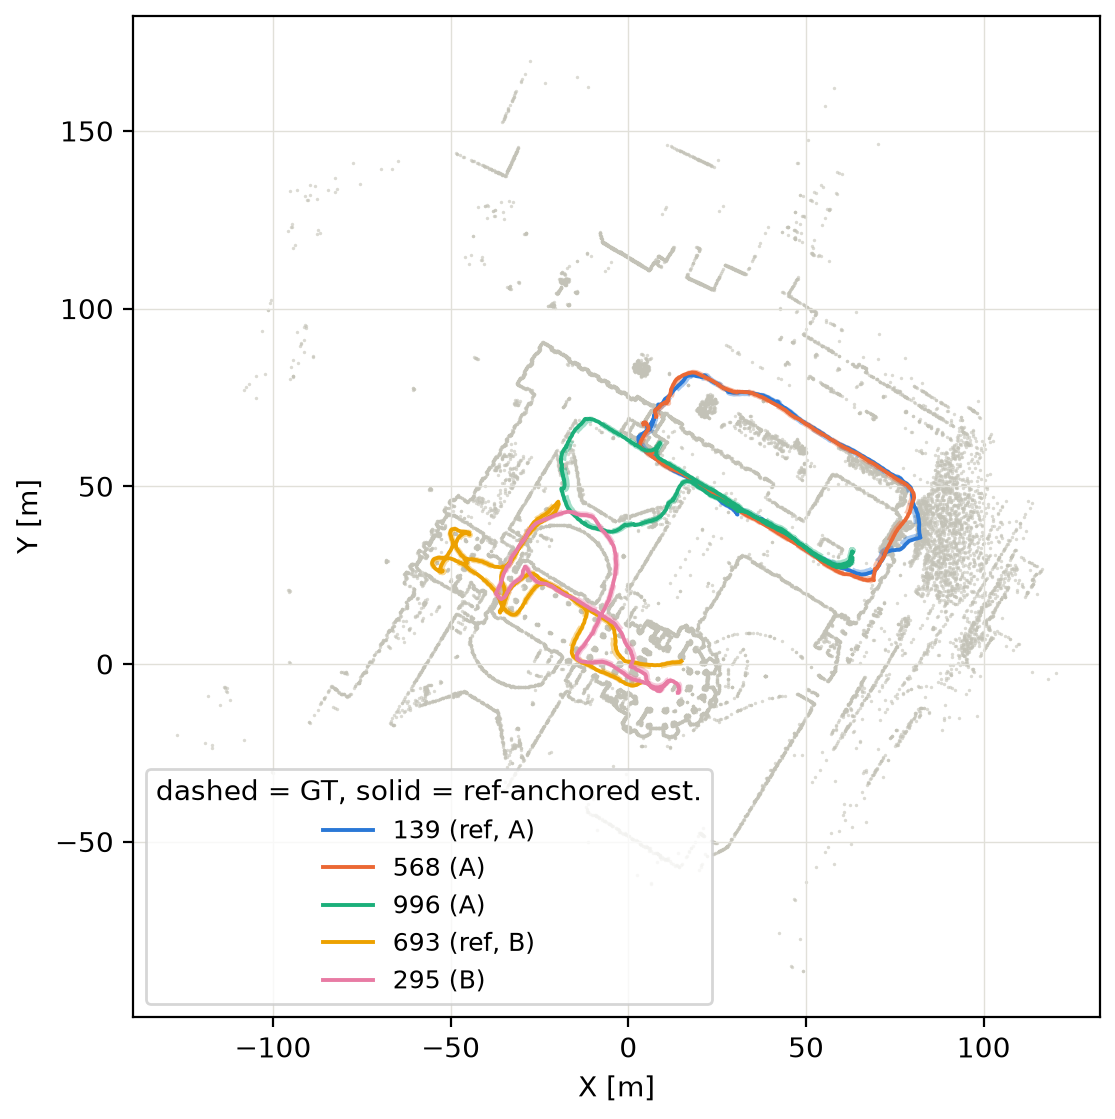
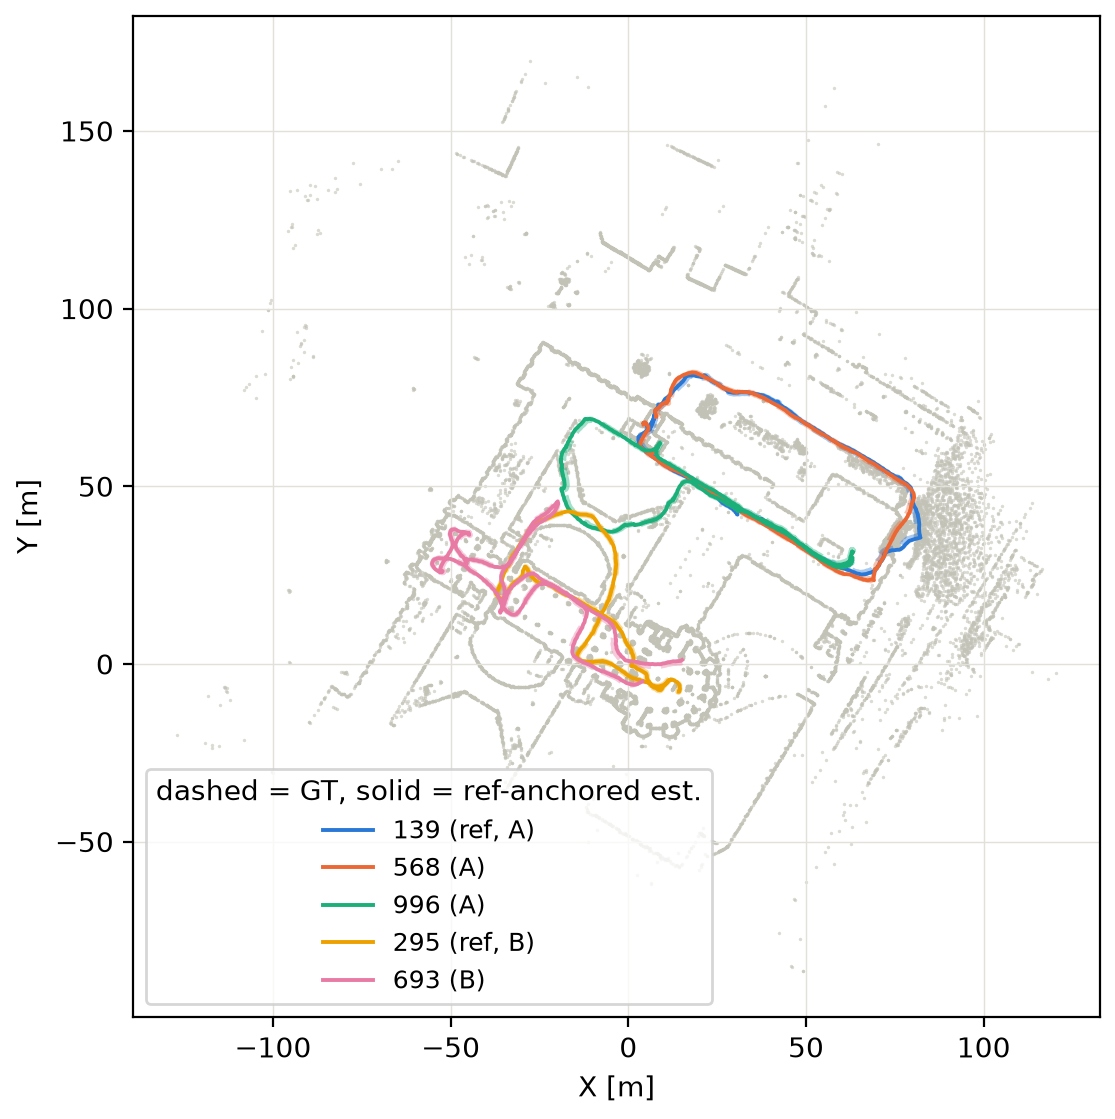
Merge HGE ATE tables into one combined anchoring table, fix real bug
Replaces the separate HoloLens ATE+ref-anchored table and the iOS
equivalent I'd just drafted with one compact table showing ref-anchored
error only for both devices, split horizontally; ATE for both devices
already lives in the device-isolated-vs-mixed table, so this drops real
duplication. Adds real iOS ref-anchored numbers pulled from the report's
own Table 16 (device-isolated "Split" column), previously unextracted.

Also fixes a real bug found while sourcing that data: HGE HoloLens group
B's reference session is 295, not 693 (verified directly against the
report's Table 3, which docs/final_experiments.md's own example command
had backwards, stale from before a later rerun). The ref-anchoring
visualization figures for HoloLens group B, and the previously-unannotated
iOS anchoring figures, are regenerated with the corrected reference and
the real per-panel numbers.

Changed region(s): [[0.3659, 0.4558, 0.6099, 0.6381], [0.3354, 0.8204, 0.3659, 0.8811], [0.5489, 0.4861, 0.5794, 0.5165]]

diff --git a/sections/04_experiments.tex b/sections/04_experiments.tex
@@ -327,35 +327,43 @@ connected component each session ends up in.
 \begin{table}[htb]
   \centering
   \footnotesize
-  \begin{tabular*}{\textwidth}{@{\extracolsep{\fill}} llrrrrr}
+  \begin{tabular*}{\textwidth}{@{\extracolsep{\fill}} llrr}
   \hline
-  \textbf{Session} & \textbf{Group} & \textbf{Raw} & \textbf{Single} & \textbf{Multi} & \textbf{Ref-anch. trans (m)} & \textbf{Ref-anch. rot (\textdegree)} \\
+  \textbf{Session} & \textbf{Group} & \textbf{Ref-anch. trans (m)} & \textbf{Ref-anch. rot (\textdegree)} \\
   \hline
-  \texttt{hl\_996} & A & \textbf{0.32} & \textbf{0.32} & \textbf{0.32} & 0.39 & 0.57 \\
-  \texttt{hl\_139} & A (ref) & 0.53 & \underline{0.51} & \textbf{0.44} & -- & -- \\
-  \texttt{hl\_693} & B & \textbf{0.22} & \textbf{0.22} & \textbf{0.22} & 0.26 & 0.58 \\
-  \texttt{hl\_295} & B (ref) & 0.13 & \textbf{0.12} & \textbf{0.12} & -- & -- \\
-  \texttt{hl\_568} & A & \underline{2.09} & \underline{2.09} & \textbf{0.29} & 0.30 & 0.89 \\
+  \multicolumn{4}{l}{\textit{HoloLens}} \\
+  \texttt{hl\_139} (ref) & A & -- & -- \\
+  \texttt{hl\_568} & A & 0.30 & 0.89 \\
+  \texttt{hl\_996} & A & 0.39 & 0.57 \\
+  \texttt{hl\_295} (ref) & B & -- & -- \\
+  \texttt{hl\_693} & B & 0.26 & 0.58 \\
   \hline
-  Total (L2-norm, $n{=}5$) & -- & 2.19 & 2.18 & 0.67 & 0.32 (mean) & 0.68 (mean) \\
+  HL Mean ($n{=}3$) & -- & 0.32 & 0.68 \\
+  \hline
+  \multicolumn{4}{l}{\textit{iOS}} \\
+  \texttt{ios\_01-18} (ref) & -- & -- & -- \\
+  \texttt{ios\_01-20} & -- & 0.66 & 0.75 \\
+  \texttt{ios\_07-01} & -- & 0.73 & 1.61 \\
+  \texttt{ios\_06-24} & -- & 1.37 & 2.76 \\
+  \hline
+  iOS Mean ($n{=}3$) & -- & 0.92 & 1.71 \\
   \hline
   \end{tabular*}
-  \caption[HGE HoloLens ATE and ref-anchored error]{HGE ATE (m), HoloLens sessions only,
-    device-isolated multi-session graph (\texttt{hl\_split}). Session identifiers abbreviated to
-    their unique numeric suffix. ``Group'' is the connected component each session settles into;
-    ``(ref)'' marks the session each component's ref-anchored error is measured against, so it has
-    no ref-anchored value of its own. Bold marks the best result among Raw/Single/Multi in a row,
-    underline the second-best. Ref-anchored columns are not ranked (nothing to compare
-    within a row).}
-  \label{tab:experiments-hge-ate}
+  \caption[HGE ref-anchored error, both devices]{HGE ref-anchored translation/rotation error,
+    device-isolated multi-session graphs (\texttt{hl\_split}/\texttt{ios\_split}). ATE for the
+    same sessions is in \mytabref{tab:experiments-hge-mixed}. ``(ref)'' marks each component's own
+    reference session, which has no ref-anchored value of its own. HoloLens splits into two
+    components (A, B); iOS forms one.}
+  \label{tab:experiments-hge-anchoring}
 \end{table}
 
-Nearly all of HGE's error reduction comes from session \texttt{hl\_568}. Its raw HoloLens odometry
-drifts to 2.09 meters. Multi-session mode brings it down to 0.29 meters. The other four sessions
-already sit close to GT before fusion and barely move. Ref-anchored error stays small across both
-connected components. Averaged over the four non-reference sessions it is 0.32 meters translation
-and 0.68 degrees rotation, so both components are not just accurate on their own but placed
-correctly relative to their own reference session.
+HGE's biggest single improvement is session \texttt{hl\_568}, which goes from 2.09 meters raw to
+0.29 meters multi-session (\mytabref{tab:experiments-hge-mixed}). Ref-anchored error stays small
+for HoloLens, 0.32 meters and 0.68 degrees on average. iOS's ref-anchored error is real but
+looser, 0.92 meters and 1.71 degrees, even though iOS's own ATE numbers are smaller than
+HoloLens's. A session can have a tight local trajectory shape and still be placed less precisely
+relative to the rest of its component, exactly what ref-anchored error is meant to catch and ATE
+alone would miss.
 
 \begin{table}[htb]
   \centering
@@ -388,11 +396,12 @@ correctly relative to their own reference session.
   \hline
   \end{tabular*}
   \caption[HGE device-isolated vs. mixed multi-session ATE]{HGE ATE (m), all 9 sessions, same
-    Raw/Single columns throughout; ``Multi (split)'' is the device-isolated graph of
-    \mytabref{tab:experiments-hge-ate} (iOS sessions run through their own \texttt{ios\_split}
-    equivalent), ``Multi (mixed, kf3/kf4)'' additionally allows HoloLens--iOS cross-session edges
-    in one shared graph at \texttt{min\_kf\_pairs}$=3$/$4$. iOS session identifiers abbreviated to
-    their capture date. Bold marks the best result in a row, underline the second-best.}
+    Raw/Single columns throughout; ``Multi (split)'' is the device-isolated \texttt{hl\_split}/
+    \texttt{ios\_split} multi-session result, ``Multi (mixed, kf3/kf4)'' additionally allows
+    HoloLens--iOS cross-session edges in one shared graph at \texttt{min\_kf\_pairs}$=3$/$4$. iOS
+    session identifiers abbreviated to their capture date. Bold marks the best result in a row,
+    underline the second-best. Ref-anchored error for the same sessions is in
+    \mytabref{tab:experiments-hge-anchoring}.}
   \label{tab:experiments-hge-mixed}
 \end{table}
 

diff --git a/sections/07_appendix.tex b/sections/07_appendix.tex
@@ -18,9 +18,9 @@ per-sequence trajectory visualizations and other detailed breakdowns.
   \includegraphics[width=\textwidth]{images/07_appendix/hge_hololens_anchor_individual.png}
   \caption[HGE HoloLens ref-anchored estimate vs.\ GT, per session]{HGE HoloLens non-reference
     sessions, same methodology and layout as \myfigref{fig:appendix-hydro-anchor-individual}. The
-    device splits into 2 disconnected components (\mytabref{tab:experiments-hge-ate}): A
-    (reference \texttt{139}, others \texttt{568}/\texttt{996}) and B (reference \texttt{693},
-    other \texttt{295}), each anchored by its own component's fixed transform.}
+    device splits into 2 disconnected components (\mytabref{tab:experiments-hge-anchoring}): A
+    (reference \texttt{139}, others \texttt{568}/\texttt{996}) and B (reference \texttt{295},
+    other \texttt{693}), each anchored by its own component's fixed transform.}
   \label{fig:appendix-hge-hololens-anchor-individual}
 \end{figure}
 
@@ -39,10 +39,9 @@ per-sequence trajectory visualizations and other detailed breakdowns.
   \includegraphics[width=\textwidth]{images/07_appendix/hge_ios_anchor_individual.png}
   \caption[HGE iOS ref-anchored estimate vs.\ GT, per session]{HGE iOS non-reference sessions
     (\texttt{ios\_split}, reference \texttt{01-18}), same methodology as
-    \myfigref{fig:appendix-hydro-anchor-individual}. No published per-session ref-anchored
-    number exists for iOS (only the HoloLens component in \mytabref{tab:experiments-hge-ate}), so
-    panels are unannotated; the visible GT/estimate gap on \texttt{06-24} and \texttt{07-01} is
-    real and consistent with their higher multi-session ATE in \mytabref{tab:experiments-hge-mixed}.}
+    \myfigref{fig:appendix-hydro-anchor-individual}. Per-panel numbers match
+    \mytabref{tab:experiments-hge-anchoring}. The visible GT/estimate gap on \texttt{06-24} is the
+    largest of the three, consistent with it having the highest ref-anchored error in that table.}
   \label{fig:appendix-hge-ios-anchor-individual}
 \end{figure}
 
@@ -64,7 +63,7 @@ per-sequence trajectory visualizations and other detailed breakdowns.
   \caption[HGE trajectory grid, HoloLens sessions]{HGE trajectory grid, HoloLens sessions
     (device-isolated \texttt{hl\_split} run): native odometry, single-session, and multi-session
     output (green) against GT (red), GT-aligned. Session \texttt{568}'s native odometry drifts
-    heavily and is visibly corrected in the multi-session column, matching \mytabref{tab:experiments-hge-ate}'s
+    heavily and is visibly corrected in the multi-session column, matching \mytabref{tab:experiments-hge-mixed}'s
     2.09\,m $\to$ 0.29\,m improvement.}
   \label{fig:appendix-hge-hololens}
 \end{figure}
@@ -396,7 +395,7 @@ results.
   \caption[HGE/HYDRO ref-anchored consistency by PE method]{Same multi-session runs as
     \mytabref{tab:ablation-pe-kitti}. Each connected component's reference session is Umeyama-fit
     to GT, that fixed transform applied to the rest of the component, then measured against each
-    session's own GT (same method as \mytabref{tab:experiments-hge-ate}/\mytabref{tab:experiments-hydro-ate}).
+    session's own GT (same method as \mytabref{tab:experiments-hge-anchoring}/\mytabref{tab:experiments-hydro-ate}).
     ``Components'' is the number of connected components the multi-session graph settled into for
     that method.}
   \label{tab:ablation-pe-anchoring}
